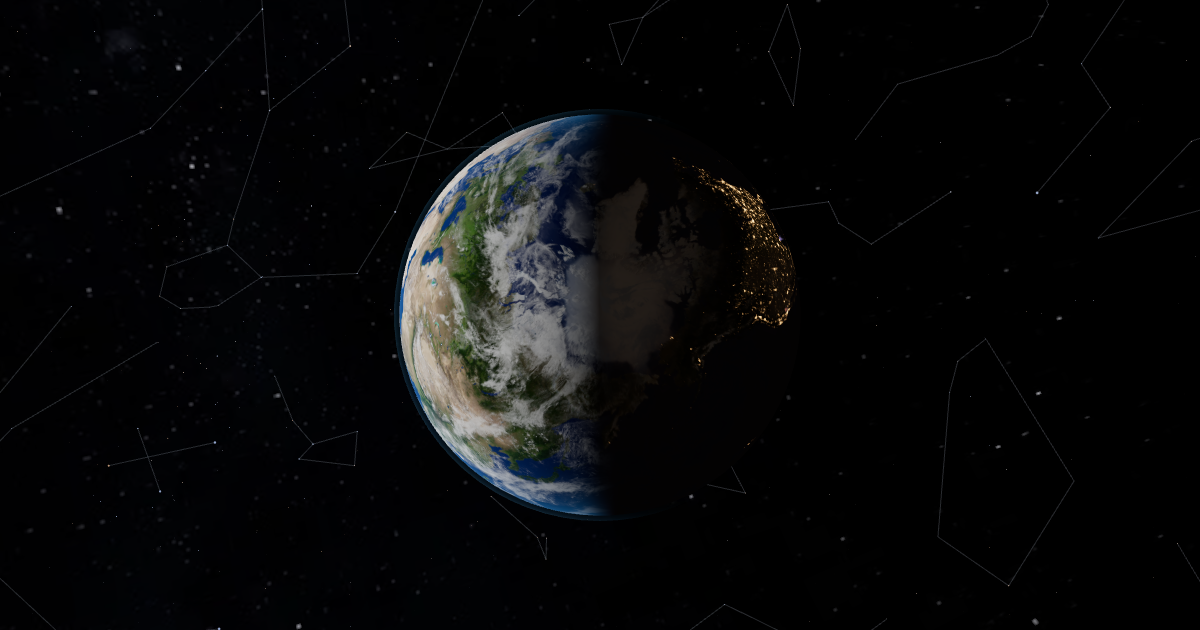
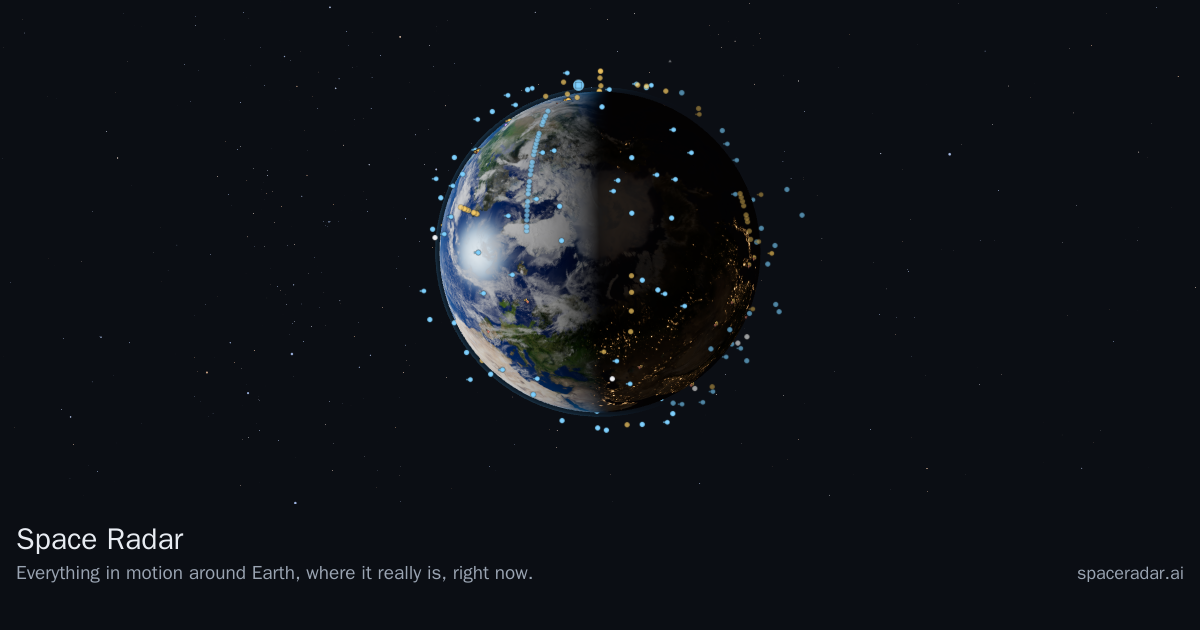
The trip pictures from the first green readme-shots run: one per trip and default.png, and each trip page names its own
Run 35876214626 on this branch (which=og): default 212 937, people-in-space 188 925,
strangest-things 313 819, to-the-edge 80 578, moon-landings 297 970, outer-solar-system 98 058
bytes, each 1200 x 630. scripts/gen_trip_pages.py re-run so og:image is /og/<id>.png.

diff --git a/site/t/moon-landings.html b/site/t/moon-landings.html
@@ -13,7 +13,7 @@
 <meta property="og:site_name" content="Space Radar">
 <meta property="og:title" content="Where we have landed on the Moon">
 <meta property="og:description" content="The first soft landing, the first people, a rover driven from Earth, the far side, the south pole and the first private landers. Leaving brings you back to Earth.">
-<meta property="og:image" content="https://www.spaceradar.ai/og/default.png">
+<meta property="og:image" content="https://www.spaceradar.ai/og/moon-landings.png">
 <meta property="og:image:width" content="1200">
 <meta property="og:image:height" content="630">
 <meta property="og:url" content="https://www.spaceradar.ai/t/moon-landings.html">

diff --git a/site/t/outer-solar-system.html b/site/t/outer-solar-system.html
@@ -13,7 +13,7 @@
 <meta property="og:site_name" content="Space Radar">
 <meta property="og:title" content="Out past Jupiter, to the farthest thing we sent">
 <meta property="og:description" content="Ten stops through the cold half of the Solar System, each world at its true size. Leaving brings you back to Earth.">
-<meta property="og:image" content="https://www.spaceradar.ai/og/default.png">
+<meta property="og:image" content="https://www.spaceradar.ai/og/outer-solar-system.png">
 <meta property="og:image:width" content="1200">
 <meta property="og:image:height" content="630">
 <meta property="og:url" content="https://www.spaceradar.ai/t/outer-solar-system.html">

diff --git a/site/t/to-the-edge.html b/site/t/to-the-edge.html
@@ -13,7 +13,7 @@
 <meta property="og:site_name" content="Space Radar">
 <meta property="og:title" content="To the edge of what we know">
 <meta property="og:description" content="From the Sun to the first black hole anyone photographed, in eight steps. Leaving brings you back to Earth.">
-<meta property="og:image" content="https://www.spaceradar.ai/og/default.png">
+<meta property="og:image" content="https://www.spaceradar.ai/og/to-the-edge.png">
 <meta property="og:image:width" content="1200">
 <meta property="og:image:height" content="630">
 <meta property="og:url" content="https://www.spaceradar.ai/t/to-the-edge.html">

diff --git a/site/t/strangest-things.html b/site/t/strangest-things.html
@@ -13,7 +13,7 @@
 <meta property="og:site_name" content="Space Radar">
 <meta property="og:title" content="The strangest things we have ever sent">
 <meta property="og:description" content="A family photograph, two golf balls, a library, a record and a car.">
-<meta property="og:image" content="https://www.spaceradar.ai/og/default.png">
+<meta property="og:image" content="https://www.spaceradar.ai/og/strangest-things.png">
 <meta property="og:image:width" content="1200">
 <meta property="og:image:height" content="630">
 <meta property="og:url" content="https://www.spaceradar.ai/t/strangest-things.html">

diff --git a/site/t/people-in-space.html b/site/t/people-in-space.html
@@ -13,7 +13,7 @@
 <meta property="og:site_name" content="Space Radar">
 <meta property="og:title" content="Where people are living in space right now">
 <meta property="og:description" content="The only two places above you tonight with people inside them.">
-<meta property="og:image" content="https://www.spaceradar.ai/og/default.png">
+<meta property="og:image" content="https://www.spaceradar.ai/og/people-in-space.png">
 <meta property="og:image:width" content="1200">
 <meta property="og:image:height" content="630">
 <meta property="og:url" content="https://www.spaceradar.ai/t/people-in-space.html">
